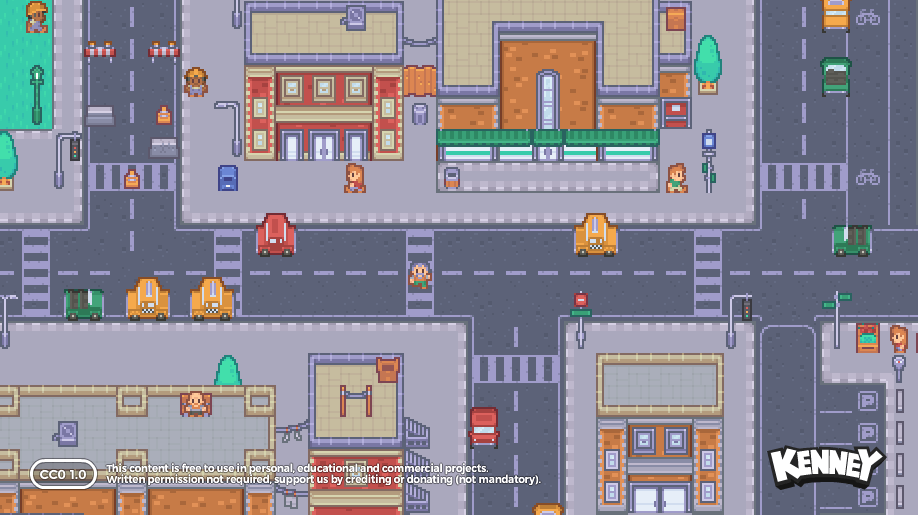
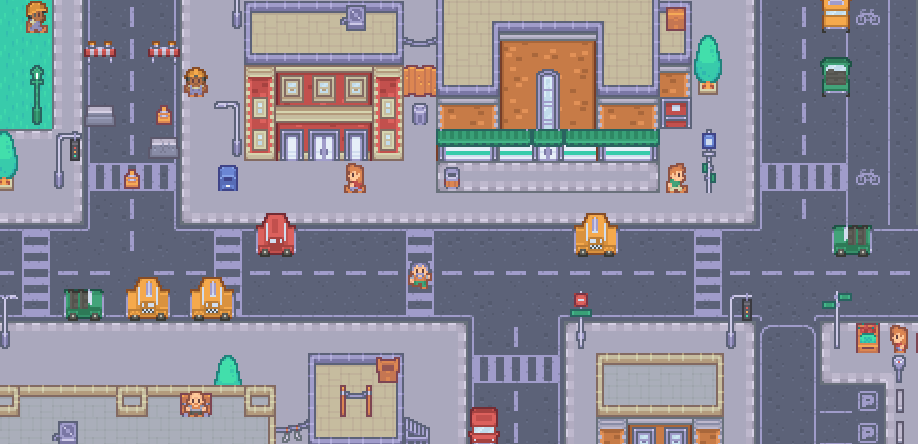
changed the maine image

diff --git a/pROJECT/css/style.css b/pROJECT/css/style.css
@@ -1,8 +1,8 @@
 #game-container {
-    width: 1900px;
-    height: 920px;
+    width: 1600px;
+    height: 900px;
     position: relative;
-    background-image: url("https://kenney.nl/media/pages/assets/rpg-urban-pack/9cd1ad6a20-1677578571/sample.png"); 
+    background-image: url("https://raw.githubusercontent.com/foenyxr/http5121-WD/main/pROJECT/kenney_rpg-urban-pack/Sample.png"); 
     background-size: cover;
 }
 
@@ -11,23 +11,19 @@
     transition: all 0.5s ease; 
 }
 
-
-#house {
-    width: 50px; 
-    height: 50px;
-    /* transform: scale(2); */
-    background: url("https://raw.githubusercontent.com/foenyxr/http5121-WD/main/pROJECT/kenney_tiny-town/Tiles/tile_0094.png") no-repeat; 
-    top: 300px; 
-    left: 500px;
-    background-size: cover;
-    cursor: pointer;
-}
-
 #player {
     width: 32px; 
     height: 32px;
     background-image: url('https://encrypted-tbn0.gstatic.com/images?q=tbn:ANd9GcRwUAf6tsOdMWJfi4wDdNgOlmUsYUTLOgEOYoMLTzXJuA&s'); 
     top: 100px;
     bottom: 30px;
-    z-index: 1;
+}
+
+#house {
+    width: 64px; 
+    height: 64px;
+    transform: scale(2);
+    background: url("https://raw.githubusercontent.com/foenyxr/http5121-WD/main/pROJECT/kenney_tiny-town/Tiles/tile_0094.png") no-repeat; 
+    top: 300px; 
+    left: 500px;
 }

diff --git a/pROJECT/index.html b/pROJECT/index.html
@@ -10,6 +10,9 @@
     <div id="game-container">
         <div id="player" class="sprite"></div>
         <div id="house" class="destination sprite"></div>
+        <div id="house2" class="destination sprite"></div>
+        <div id="house3" class="destination sprite"></div>
+        
     </div>
     <script src="js/script.js"></script>
 </body>
